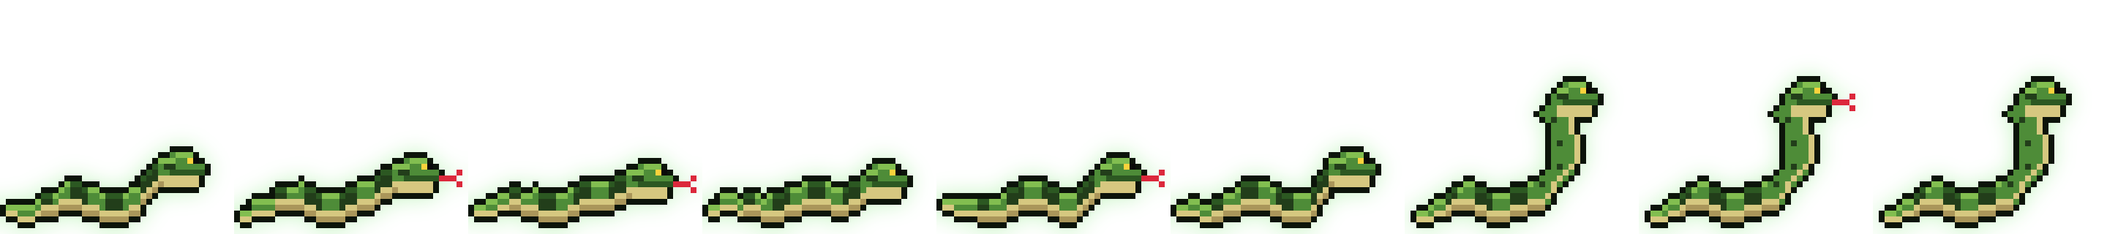
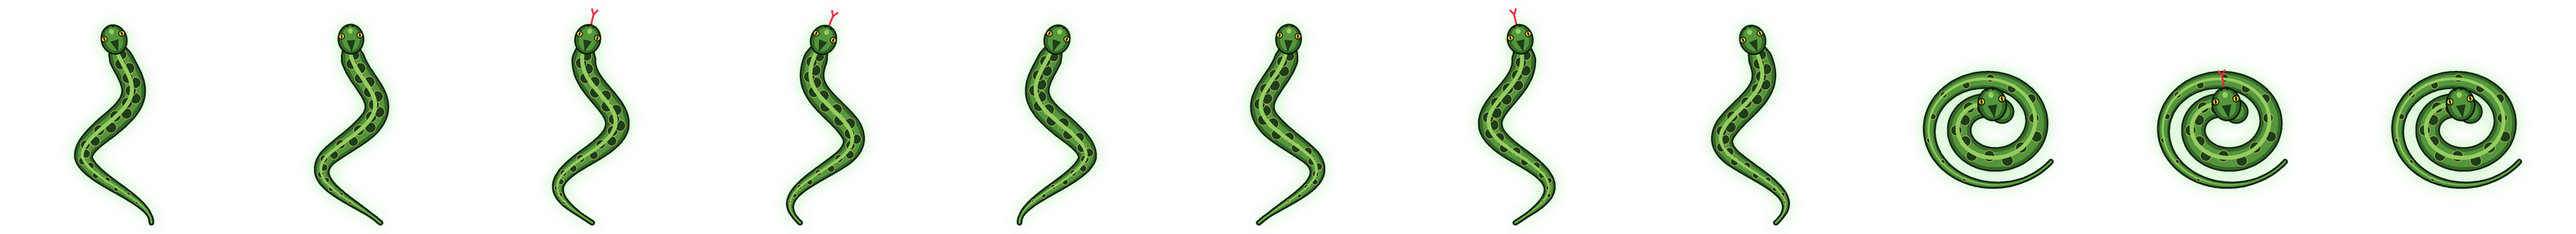
Snake redrawn from above: slithers in waves and turns where it goes, coils up at rest

Changed region(s): [[0.0, 0.0938, 1.0, 1.0]]

diff --git a/tools/make_snake.py b/tools/make_snake.py
@@ -1,133 +1,136 @@
-# Draws the original pixel-art snake (a green python with dark blotches) on a 40x40 grid, scaled 8x.
-# Strip of 9 square frames: 0-5 slithering (a wave runs along the body, the tongue flicks),
-# 6-8 resting: the head raised high, tongue in / out / in.
+# Draws the snake seen from above (a green python with dark saddle markings), head pointing up.
+# The program turns the picture towards where it crawls.
+# Strip of 11 square frames: 0-7 slithering (an S-wave runs from the head to the tail, the tongue flicks),
+# 8-10 resting: coiled up, head on top of the coil, tongue in / out / in.
+# Drawn at 1024 px and scaled down to 320 px for smooth edges.
 # Usage: python tools/make_snake.py
 import math
 from PIL import Image, ImageDraw, ImageFilter
 
-G, SCALE = 40, 8
-OUT = G * SCALE
-OUTLINE = (12, 20, 10, 255)
-SKIN = (78, 140, 56, 255)
-SKIN_L = (130, 190, 80, 255)
-SKIN_D = (44, 88, 34, 255)
-BLOTCH = (34, 62, 26, 255)
-BELLY = (214, 200, 128, 255)
-BELLY_D = (170, 150, 90, 255)
-EYE = (250, 210, 60, 255)
-PUPIL = (10, 10, 10, 255)
-TONGUE = (220, 40, 60, 255)
+N, OUT = 1024, 320
+OUTLINE = (14, 30, 14)
+SKIN = (84, 150, 60)
+SKIN_D = (52, 104, 40)
+SKIN_L = (150, 205, 96)
+SADDLE = (30, 62, 26)
+SADDLE_EDGE = (178, 176, 96)
+EYE = (240, 200, 60)
+PUPIL = (12, 12, 12)
+TONGUE = (220, 40, 64)
 GLOW = (120, 230, 110)
+FRAMES = 8
 
 
-def outline(img):
-    src = img.load()
-    out = img.copy()
-    o = out.load()
-    for y in range(G):
-        for x in range(G):
-            if src[x, y][3] or src[x, y] == TONGUE:
-                continue
-            for dx, dy in ((1, 0), (-1, 0), (0, 1), (0, -1)):
-                nx, ny = x + dx, y + dy
-                if 0 <= nx < G and 0 <= ny < G and src[nx, ny][3] and src[nx, ny] != TONGUE:
-                    o[x, y] = OUTLINE
-                    break
-    return out
+def width_at(s):
+    """Body width along the snake, s = 0 at the head .. 1 at the tail tip."""
+    if s < 0.06:
+        return 62 + 30 * (s / 0.06)          # neck widens behind the head
+    if s < 0.45:
+        return 92
+    return 92 * max(0.08, 1 - (s - 0.45) / 0.55) ** 0.9
+
+
+def tube(img, pts, ws):
+    """Draws a shaded tube through the points: outline, dark sides, body, a light ridge, markings."""
+    d = ImageDraw.Draw(img)
+    for extra, col in ((14, OUTLINE), (0, SKIN_D)):
+        for (x, y), w in zip(pts, ws):
+            r = (w + extra) / 2
+            d.ellipse((x - r, y - r, x + r, y + r), fill=col)
+    for (x, y), w in zip(pts, ws):
+        r = w * 0.36
+        d.ellipse((x - r, y - r, x + r, y + r), fill=SKIN)
+    # blotches along the back, staggered left and right like a python's pattern
+    step = max(8, len(pts) // 24)
+    for n, k in enumerate(range(step, len(pts) - 4, step)):
+        (x0, y0), (x1, y1) = pts[k - 1], pts[k + 1]
+        ang = math.atan2(y1 - y0, x1 - x0)
+        nx, ny = -math.sin(ang), math.cos(ang)
+        w = ws[k]
+        if w < 22:
+            continue
+        off = (0.14 if n % 2 else -0.14) * w
+        cx, cy, r = pts[k][0] + nx * off, pts[k][1] + ny * off, w * 0.24
+        d.ellipse((cx - r - 3, cy - r - 3, cx + r + 3, cy + r + 3), fill=SADDLE_EDGE)
+        d.ellipse((cx - r, cy - r, cx + r, cy + r), fill=SADDLE)
+    for (x, y), w in zip(pts, ws):                       # light ridge along the spine
+        r = w * 0.09
+        d.ellipse((x - r - w * 0.08, y - r - w * 0.08, x + r - w * 0.08, y + r - w * 0.08), fill=SKIN_L)
+
+
+def head(img, x, y, ang, tongue, scale=1.0):
+    """Head at (x, y) pointing along ang (radians, 0 = up)."""
+    hd = Image.new("RGBA", (N, N), (0, 0, 0, 0))
+    d = ImageDraw.Draw(hd)
+    cx, cy, s = N / 2, N / 2, scale
+    if tongue:
+        d.line([(cx, cy - 70 * s), (cx, cy - 128 * s)], fill=TONGUE, width=int(8 * s))
+        d.line([(cx, cy - 126 * s), (cx - 14 * s, cy - 150 * s)], fill=TONGUE, width=int(7 * s))
+        d.line([(cx, cy - 126 * s), (cx + 14 * s, cy - 150 * s)], fill=TONGUE, width=int(7 * s))
+    d.ellipse((cx - 58 * s, cy - 82 * s, cx + 58 * s, cy + 52 * s), fill=OUTLINE)
+    d.ellipse((cx - 51 * s, cy - 75 * s, cx + 51 * s, cy + 45 * s), fill=SKIN_D)
+    d.ellipse((cx - 38 * s, cy - 70 * s, cx + 38 * s, cy + 36 * s), fill=SKIN)
+    d.polygon([(cx - 18 * s, cy - 10 * s), (cx + 18 * s, cy - 10 * s), (cx, cy + 40 * s)], fill=SADDLE)   # marking
+    d.ellipse((cx - 10 * s, cy - 62 * s, cx + 10 * s, cy - 40 * s), fill=SKIN_L)
+    for sx in (-1, 1):                                                               # eyes on the sides
+        ex = cx + sx * 40 * s
+        d.ellipse((ex - 14 * s, cy - 44 * s, ex + 14 * s, cy - 16 * s), fill=OUTLINE)
+        d.ellipse((ex - 10 * s, cy - 40 * s, ex + 10 * s, cy - 20 * s), fill=EYE)
+        d.ellipse((ex - 3 * s, cy - 39 * s, ex + 3 * s, cy - 21 * s), fill=PUPIL)
+        d.ellipse((cx + sx * 12 * s - 4 * s, cy - 76 * s, cx + sx * 12 * s + 4 * s, cy - 68 * s), fill=OUTLINE)  # nostrils
+    hd = hd.rotate(-math.degrees(ang), resample=Image.BICUBIC, center=(cx, cy))
+    img.alpha_composite(hd, (int(x - cx), int(y - cy)))
 
 
 def finish(img):
-    img = outline(img).resize((OUT, OUT), Image.NEAREST)
-    a = img.split()[3]
-    halo = a.filter(ImageFilter.GaussianBlur(14)).point(lambda v: int(v * 0.4))
+    small = img.resize((OUT, OUT), Image.LANCZOS)
+    a = small.split()[3]
+    halo = a.filter(ImageFilter.GaussianBlur(10)).point(lambda v: int(v * 0.45))
     out = Image.merge("RGBA", [Image.new("L", (OUT, OUT), c) for c in GLOW] + [halo])
-    out.alpha_composite(img)
+    out.alpha_composite(small)
     return out
 
 
-def column(p, x, top, bottom, pattern):
-    """One vertical slice of the body: back light, side, blotch, belly."""
-    for y in range(top, bottom + 1):
-        if y == bottom:
-            c = BELLY_D if bottom - top >= 3 else BELLY
-        elif y == bottom - 1 and bottom - top >= 3:
-            c = BELLY
-        elif y == top:
-            c = SKIN_L
-        else:
-            c = BLOTCH if pattern else SKIN
-        if 0 <= x < G and 0 <= y < G:
-            p[x, y] = c
-    if pattern and bottom - top >= 3 and 0 <= x < G:
-        p[x, top] = SKIN_D
-
-
-def head(d, p, hx, hy, tongue, up=False):
-    """Head pointing right, its back-left corner at (hx, hy)."""
-    d.ellipse((hx, hy, hx + 7, hy + 5), fill=SKIN)
-    d.rectangle((hx + 1, hy + 4, hx + 6, hy + 5), fill=BELLY)
-    d.line([(hx + 1, hy + 1), (hx + 5, hy)], fill=SKIN_L)
-    d.line([(hx + 2, hy + 3), (hx + 7, hy + 3)], fill=SKIN_D)     # mouth line
-    p[hx + 5, hy + 1] = EYE
-    p[hx + 6, hy + 1] = PUPIL
-    p[hx + 1, hy + 2] = BLOTCH                                      # marking behind the eye
-    p[hx + 2, hy + 2] = BLOTCH
-    if tongue:
-        tx, ty = hx + 8, hy + 3
-        d.line([(tx, ty), (tx + 2, ty)], fill=TONGUE)
-        p[tx + 3, ty - 1] = TONGUE
-        p[tx + 3, ty + 1] = TONGUE
-
-
 def slither(i):
-    img = Image.new("RGBA", (G, G), (0, 0, 0, 0))
-    d = ImageDraw.Draw(img)
-    p = img.load()
-    ph = i / 6 * 2 * math.pi
-    ground = 36
-    for x in range(1, 28):
-        t = (x - 1) / 26.0
-        th = int(round(1 + 3.2 * min(1.0, t * 2.2)))        # the tail tapers
-        wave = 1.4 * math.sin(x * 0.42 + ph) * (0.4 + 0.6 * t)
-        cy = ground - th / 2.0 + wave
-        if x >= 23:
-            cy -= (x - 23) * 0.9                              # the neck lifts a little
-        top = int(round(cy - th / 2.0))
-        column(p, x, top, top + th, (x // 3) % 2 == 0 and x > 6)
-    head(d, p, 27, int(round(ground - 9 + 1.4 * math.sin(27 * 0.42 + ph) * 0.9)), tongue=i in (1, 2, 4))
+    ph = i / FRAMES * 2 * math.pi
+    img = Image.new("RGBA", (N, N), (0, 0, 0, 0))
+    count = 500
+    length = 760.0
+    pts, ws = [], []
+    for k in range(count):
+        s = k / (count - 1)
+        y = 215 + s * length
+        amp = 30 + 120 * min(1.0, s * 1.6)          # small near the head, wide along the body
+        x = N / 2 + amp * math.sin(s * 2 * math.pi * 1.25 - ph) - 30 * math.sin(-ph)
+        pts.append((x, y))
+        ws.append(width_at(s))
+    pts.reverse(); ws.reverse()                       # tail first, so the front is drawn on top
+    tube(img, pts, ws)
+    hx, hy = pts[-1]
+    px_, py_ = pts[-6]
+    ang = math.atan2(hx - px_, -(hy - py_))
+    head(img, hx + math.sin(ang) * 30, hy - math.cos(ang) * 30, ang, tongue=i in (2, 3, 6))
     return finish(img)
 
 
-def raised(tongue):
-    img = Image.new("RGBA", (G, G), (0, 0, 0, 0))
-    d = ImageDraw.Draw(img)
-    p = img.load()
-    ground = 36
-    # body lying in a loose S on the ground, then rising into an S-shaped neck
-    for x in range(2, 24):
-        t = (x - 2) / 21.0
-        th = int(round(1 + 3.2 * min(1.0, t * 2.2)))
-        cy = ground - th / 2.0 + 0.8 * math.sin(x * 0.5)
-        top = int(round(cy - th / 2.0))
-        column(p, x, top, top + th, (x // 3) % 2 == 0 and x > 6)
-    # neck: a thick curve from (23, 33) up to the head
-    pts = []
-    for k in range(13):
-        s = k / 12.0
-        pts.append((23 + 5 * math.sin(s * math.pi * 0.9), 33 - s * 15))
-    for (x0, y0), (x1, y1) in zip(pts, pts[1:]):
-        d.line([(x0, y0), (x1, y1)], fill=SKIN, width=4)
-    for (x0, y0), (x1, y1) in zip(pts, pts[1:]):
-        d.line([(x0 + 1.5, y0), (x1 + 1.5, y1)], fill=BELLY, width=1)   # pale throat facing forward
-    for k in range(1, 12, 3):
-        x, y = pts[k]
-        d.point((int(x) - 1, int(y)), fill=BLOTCH)
-    head(d, p, 25, 14, tongue)
+def coiled(tongue):
+    img = Image.new("RGBA", (N, N), (0, 0, 0, 0))
+    count = 700
+    pts, ws = [], []
+    for k in range(count):
+        s = k / (count - 1)                           # 0 = tail tip (outside) .. 1 = neck (inside)
+        a = 0.6 + s * 2 * math.pi * 1.75
+        r = 320 - 230 * s
+        pts.append((N / 2 + r * math.cos(a), N / 2 + 40 + r * math.sin(a) * 0.86))
+        ws.append(width_at(1 - s) if s < 0.94 else 92)
+    tube(img, pts, ws)
+    # neck rising from the middle of the coil, head looking up
+    head(img, N / 2 + 10, N / 2 - 40, -0.15, tongue, scale=1.12)
     return finish(img)
 
 
 def main():
-    frames = [slither(i) for i in range(6)] + [raised(False), raised(True), raised(False)]
+    frames = [slither(i) for i in range(FRAMES)] + [coiled(False), coiled(True), coiled(False)]
     strip = Image.new("RGBA", (OUT * len(frames), OUT), (0, 0, 0, 0))
     for i, f in enumerate(frames):
         strip.paste(f, (i * OUT, 0))

diff --git a/src/Settings.cs b/src/Settings.cs
@@ -115,7 +115,7 @@ namespace ButterflyCursor
                 new Creature { Id = "biker", Title = L.T("Байкер"), DefaultStyle = MoveStyle.Run, RunFrames = 4, RestSeq = new[] { 0, 0, 0, 0, 2, 2, 0, 0, 0, 1, 1, 1, 0, 0 }, RestStep = 0.25f, Category = "vehicles", Desc = "Мчит на мотоцикле, в покое стоит на подножке, машет и газует" },
                 new Creature { Id = "helicopter", Title = L.T("Вертолёт"), DefaultStyle = MoveStyle.Run, RunFrames = 4, RestSeq = new[] { 0, 1 }, RestStep = 0.14f, Flies = true, Category = "vehicles", Desc = "Спасательный вертолёт: летает за мышью, садится у «Пуска»" },
                 new Creature { Id = "elephant", Title = L.T("Слонёнок"), DefaultStyle = MoveStyle.Run, RunFrames = 6, RestSeq = new[] { 0, 0, 0, 0, 0, 1, 0, 0, 0, 2, 2, 0, 0, 0, 1, 0 }, RestStep = 0.3f, Category = "animals", Desc = "Пиксельный слонёнок: топает, в покое сидит и машет хоботом" },
-                new Creature { Id = "snake", Title = L.T("Змея"), DefaultStyle = MoveStyle.Run, RunFrames = 6, RestSeq = new[] { 0, 0, 0, 0, 1, 0, 1, 0, 0, 0, 0, 0, 1, 2, 1, 0 }, RestStep = 0.18f, Category = "animals", Desc = "Зелёный питон: ползёт волной, в покое поднимает голову и пробует воздух языком" },
+                new Creature { Id = "snake", Title = L.T("Змея"), DefaultStyle = MoveStyle.Crawl, RunFrames = 8, RestSeq = new[] { 0, 0, 0, 0, 1, 0, 1, 0, 0, 0, 0, 0, 0, 1, 2, 1, 0, 0 }, RestStep = 0.18f, Category = "animals", Desc = "Питон, вид сверху: ползёт волной, в покое сворачивается кольцом и показывает язык" },
                 new Creature { Id = "fox", Title = L.T("Лисичка"), DefaultStyle = MoveStyle.Run, RunFrames = 6, RestSeq = new[] { 0, 1, 2, 3, 4, 5 }, RestStep = 0.16f, Category = "animals", Desc = "Рыжая лиса: бегает за курсором, в покое дышит и шевелит хвостом" },
                 new Creature { Id = "panda", Title = L.T("Панда-мастер"), DefaultStyle = MoveStyle.Run, RunFrames = 6, RestSeq = new[] { 0, 0, 1, 2, 3, 4, 3, 4, 3, 4, 1 }, RestStep = 0.34f, Category = "animals", Desc = "Ходит вразвалку, в покое ест бамбук" },
                 new Creature { Id = "cloud_rain", Title = L.T("Облако с дождём"), DefaultStyle = MoveStyle.Float, Category = "weather", Desc = "Летает за мышью и поливает дождиком" },

diff --git a/src/Program.cs b/src/Program.cs
@@ -1149,7 +1149,7 @@ namespace ButterflyCursor
             float freq;
             bool riding = dizzyT > 0 && dizzyT <= DizzyLen - 1.2f;
             if (style == MoveStyle.Fly) freq = resting || riding ? 0.33f : 5f + 5f * moving + 6f * level;
-            else if (style == MoveStyle.Crawl) freq = 6.5f * moving;
+            else if (style == MoveStyle.Crawl) freq = runFrames > 1 ? 0.6f + 1.4f * moving : 6.5f * moving;   // the snake keeps a slow wave even when still
             else if (style == MoveStyle.Float) freq = resting ? 0f : 0.9f;
             else if (style == MoveStyle.Run) freq = flies ? 1.7f : 2.6f * moving;   // full run (or wing) cycles per second
             else if (style == MoveStyle.Wave) freq = 0.8f + 1.4f * moving;
@@ -1490,6 +1490,20 @@ namespace ButterflyCursor
                             g.FillRectangle(br, x, y, sw + 0.5f, content.Height);
                     }
                 }
+            }
+            else if (style == MoveStyle.Crawl && runFrames > 1)
+            {
+                // seen from above with its own frames (the snake): slithering, coiled up at rest
+                int idx = 0;
+                if (resting && restSeq != null && restSeq.Length > 0)
+                    idx = runFrames + restSeq[(int)((clock.Elapsed.TotalSeconds - restSince) / restStep) % restSeq.Length];
+                else
+                    idx = ((int)(phase / 6.2832f * runFrames) % runFrames + runFrames) % runFrames;
+                g.TranslateTransform(px, py);
+                g.ScaleTransform(scale, scale);
+                ApplyFun(g);
+                g.RotateTransform(angle);
+                g.DrawImage(frames[Math.Min(idx, frames.Length - 1)], -half, -half, S, S);
             }
             else if (style == MoveStyle.Crawl)
             {

diff --git a/src/Lang.cs b/src/Lang.cs
@@ -100,7 +100,7 @@ namespace ButterflyCursor
             { "Слонёнок", new[] { "Baby elephant", "Fil bolasi" } },
             { "Лисичка", new[] { "Fox", "Tulkicha" } },
             { "Змея", new[] { "Snake", "Ilon" } },
-            { "Зелёный питон: ползёт волной, в покое поднимает голову и пробует воздух языком", new[] { "A green python: slithers in waves; when idle it raises its head and tastes the air", "Yashil piton: toʻlqinsimon sudraladi, dam olganda boshini koʻtarib tili bilan havoni sinaydi" } },
+            { "Питон, вид сверху: ползёт волной, в покое сворачивается кольцом и показывает язык", new[] { "A python seen from above: slithers in waves, coils up and flicks its tongue when idle", "Piton, yuqoridan koʻrinish: toʻlqinsimon sudraladi, dam olganda halqa boʻlib oʻraladi va tilini chiqaradi" } },
             { "Байкер", new[] { "Biker", "Bayker" } },
             { "Вертолёт", new[] { "Helicopter", "Vertolyot" } },
             { "Транспорт", new[] { "Vehicles", "Transport" } },
